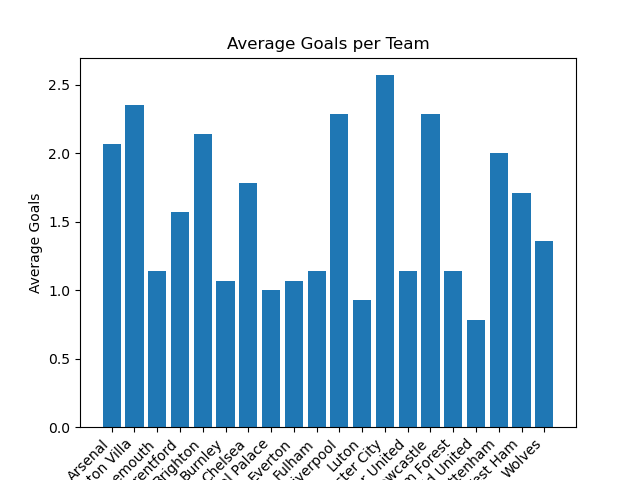
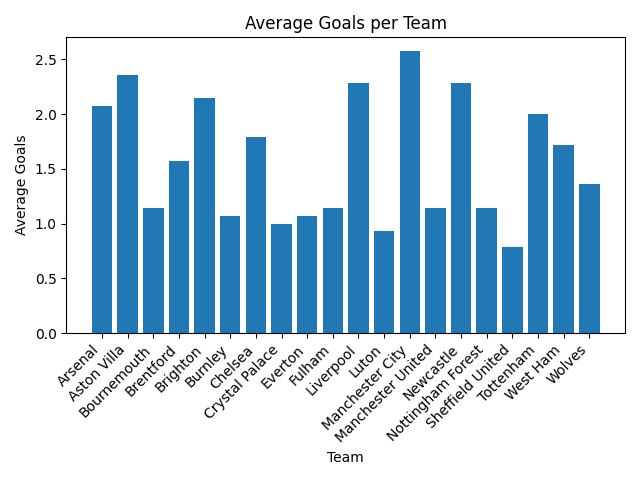
Put everything into the same database

diff --git a/evan_everything.py b/evan_everything.py
@@ -26,7 +26,7 @@ for team in teams:
         california_teams_dict[team_name] = team_id
 
 # Print the dictionary of California teams
-print("California Teams:", california_teams_dict)
+#print("California Teams:", california_teams_dict)
 
 # Create a dictionary with the number of players on each California team
 all_players_data = []
@@ -37,14 +37,14 @@ for team_name, team_id in california_teams_dict.items():
     data = res.read()
     decoded_data = json.loads(data.decode('utf-8')) 
     players_data = decoded_data['response']
-    print(f"Team: {team_name}, Players Count: {len(players_data)}") 
+    #print(f"Team: {team_name}, Players Count: {len(players_data)}") 
     all_players_data.extend(players_data)
     time.sleep(5)
 
 # Function to create a dictionary for each player
 def create_player_dict(player):
     if 'weight' not in player or 'height' not in player:
-        print(f"Skipping player {player['firstname']} {player['lastname']} (ID: {player['id']}) due to missing weight or height data")
+        #print(f"Skipping player {player['firstname']} {player['lastname']} (ID: {player['id']}) due to missing weight or height data")
         return None
 
     
@@ -75,14 +75,15 @@ all_players_list = [create_player_dict(player) for player in all_players_data]
 # Print the resulting list of player dictionaries
 for i, player_dict in enumerate(all_players_list):
     if player_dict is not None:
-        print(f"Player {i + 1}: {player_dict}")
+        pass
+        #print(f"Player {i + 1}: {player_dict}")
 
-print(f"Total players in the list: {len(all_players_list)}")
+#print(f"Total players in the list: {len(all_players_list)}")
 
 conn.close()
 
 # Connect to SQLite database (this will create a new file 'nba_players.db' if it doesn't exist)
-db_connection = sqlite3.connect('nba_players.db')
+db_connection = sqlite3.connect('database.db')
 cursor = db_connection.cursor()
 
 # Create a table to store player information
@@ -149,8 +150,6 @@ cursor.execute(
     """
 )
 grouped_data = cursor.fetchall() 
-print(grouped_data) 
-print(type(grouped_data))
 
 # Creating list for average
 height_range = ['short (5ft9-6ft3)', 'medium (6ft4-6ft7)', 'tall (6ft7-7ft)','None']

diff --git a/faraz_calc_data.py b/faraz_calc_data.py
@@ -66,6 +66,7 @@ def create_average_goals_chart(database_path):
         plt.ylabel('Average Goals')
         plt.title('Average Goals per Team')
         plt.xticks(rotation=45, ha='right')
+        plt.tight_layout()
         plt.savefig('average_goals_chart.png')
         plt.show()
             
@@ -74,5 +75,5 @@ def create_average_goals_chart(database_path):
 
 
 #FunctionCall
-create_average_goals_chart("premier_league_data.db")
+create_average_goals_chart("database.db")
 #print(calculate_average_goals("premier_league_data.db"))

diff --git a/faraz_grab_api.py b/faraz_grab_api.py
@@ -49,4 +49,4 @@ def grab_PL_team_data(database_path):
     conn.close()
 
 # Call the function with the desired database path
-grab_PL_team_data("premier_league_data.db")
+grab_PL_team_data("database.db")

diff --git a/nick_grab_api.py b/nick_grab_api.py
@@ -6,7 +6,6 @@ import sqlite3
 def grab_police_data(conn, cur):
     # Declaring variables
     city_ids = []
-    counter = 0
 
     # Deleting database
     cur.execute(
